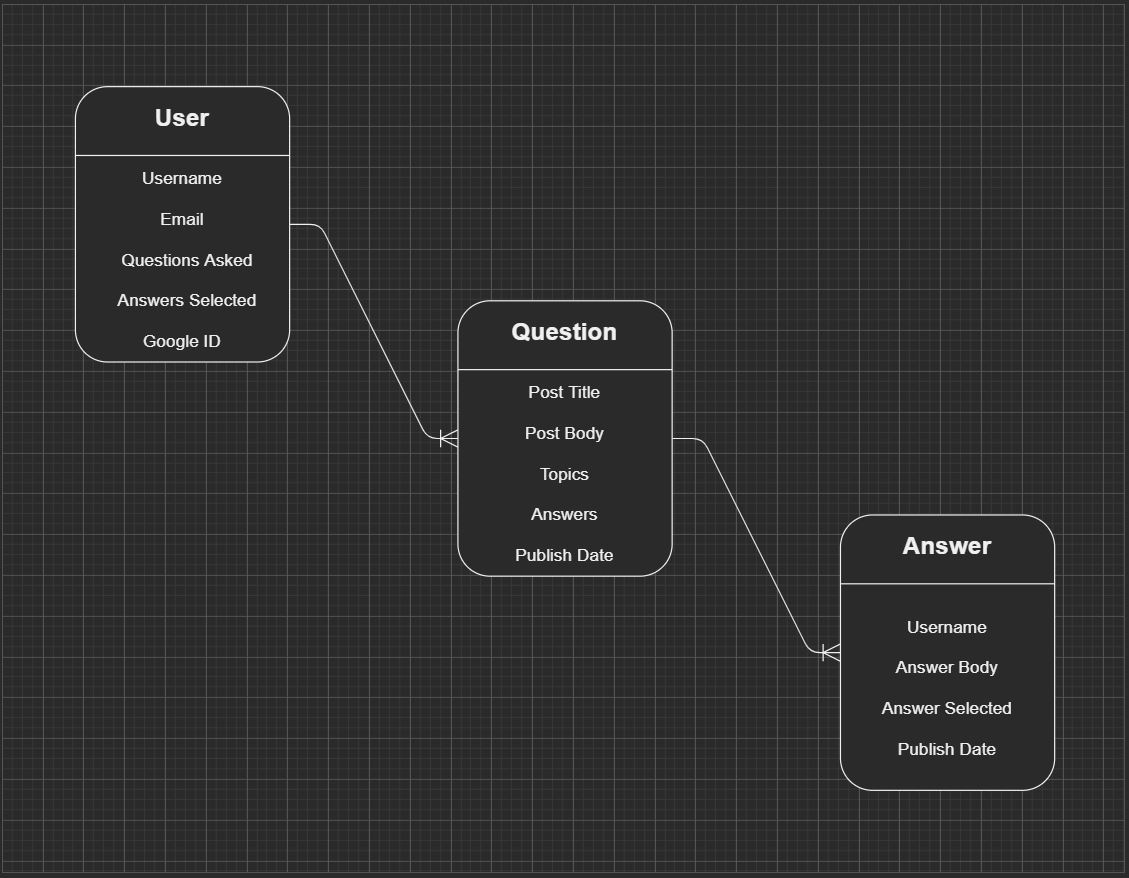
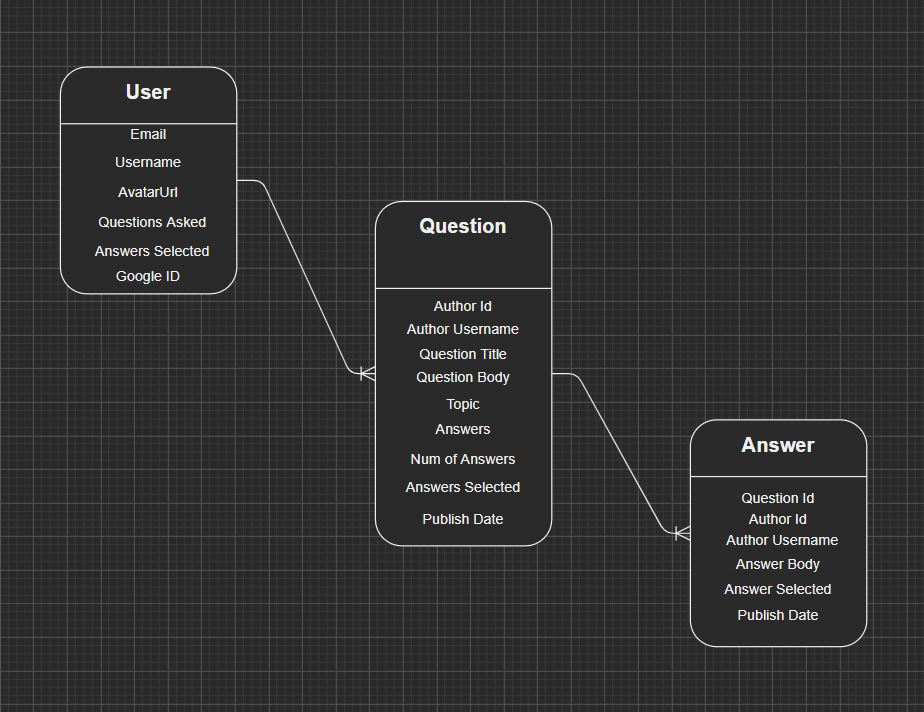
README finalized

diff --git a/boomerang/README.md b/boomerang/README.md
@@ -1,23 +1,14 @@
 # **APP TITLE: BOOMERANG**
 
-## OVERVIEW
-
----
-
-1. App Summary
-   - Wireframe
-   - User Stories
-   - Data Models
-2. Technologies Used
-3. Getting Started
-4. Next Steps
-
 <br>
 <br>
 
 ## APP SUMMARY
 
 ---
+
+<br>
+<br>
 
 ### **Wireframe**
 
@@ -43,8 +34,10 @@
 1. As a user, I can login/logout using Google account
 2. As a user, I can check my user detail that shows **email**, **username**, **number of questions asked**, and **number of answers selected** and **recent questions asked**. Username can be edited.
 3. As a user, I can ask questions that can be answered by other users in the app, and have authorization to select answers in the questions I originally asked as "_selected_"
-4. As a user, I can answer the questions in the app community which can be "_selected_" by the original author of the question
-5. As a user, I can see the questions feed which can be sorted based on the engagement numbers, topics, publish date, or unasnwered questions
+4. As a user, I can delete questions that I originally created
+5. As a user, I can answer the questions in the app community which can be "_selected_" by the original author of the question
+6. As a user, I can delete the answers I originally created in questions in the app
+7. As a user, I can see the questions feed which can be sorted based on the engagement numbers, topics, publish date, or using keyword search
 
 <br>
 <br>
@@ -55,23 +48,28 @@
 
 User
 
-- Username: String, unique
 - Email: String, unique
+- Username: String, unique
+- Avatar URL: String, unique
 - Questions asked: Number
 - Answers selected: Number
 - Google ID: String
 
 Question
 
+- Author ID: mongoose.Types.ObjectId, unique
+- Author Username: String
 - Question Title: String
 - Question Body: String
-- Topics: Enum
-- Answers: [String]
-- Publish Date: Date ( timestamps: true )
+- Topics: [String]
+- Answers: [mongoose.Types.ObjectId]
+- Publish Date: Date
 
 Answer
 
-- Username: String
+- Question Id: mongoose.Types.ObjectId
+- Author Id: mongoose.Types.ObjectId
+- Author Username: String
 - Answer Body: String
 - Answer Selected: Boolean
 - Publish Date
@@ -86,12 +84,41 @@ Answer
 <br>
 <br>
 
-## GETTING STARTED
+- Node Modules
+  - dot-env
+  - ejs
+  - express
+  - express-session
+  - method-override
+  - mongoose
+  - passport
+  - passport-google-oauth
+- Bootstrap
+- jQuery
+- MongoDb
+- Trello
+- Mockflow
+- Heroku
+- GitHub
+
+<br>
+<br>
+
+## Approach
 
 ---
 
 <br>
 <br>
+
+- This app is an express app built using MongoDB as database and EJS as view engine
+- Started off by summarizing userstories, and breaking down the components that are needed for this app to function
+- Trello was used to break down the project timeline and break down the project in to multi-steps
+- Most of the actions required authentication for the user, so started off by adding Oauth as authentication method, using passport/google strategy
+- Followed the design pattern of MVC framework, working on each feature at a time
+- The four CRUD functions are called to perform different types of operations called in HTTP requests
+  <br>
+  <br>
 
 ## NEXT STEPS
 
@@ -99,3 +126,6 @@ Answer
 
 <br>
 <br>
+
+- Planning to add "view my questions" page to show list of questions created by the user that users can get to
+- Notification functionality can be implemented to notify when there's engagement
